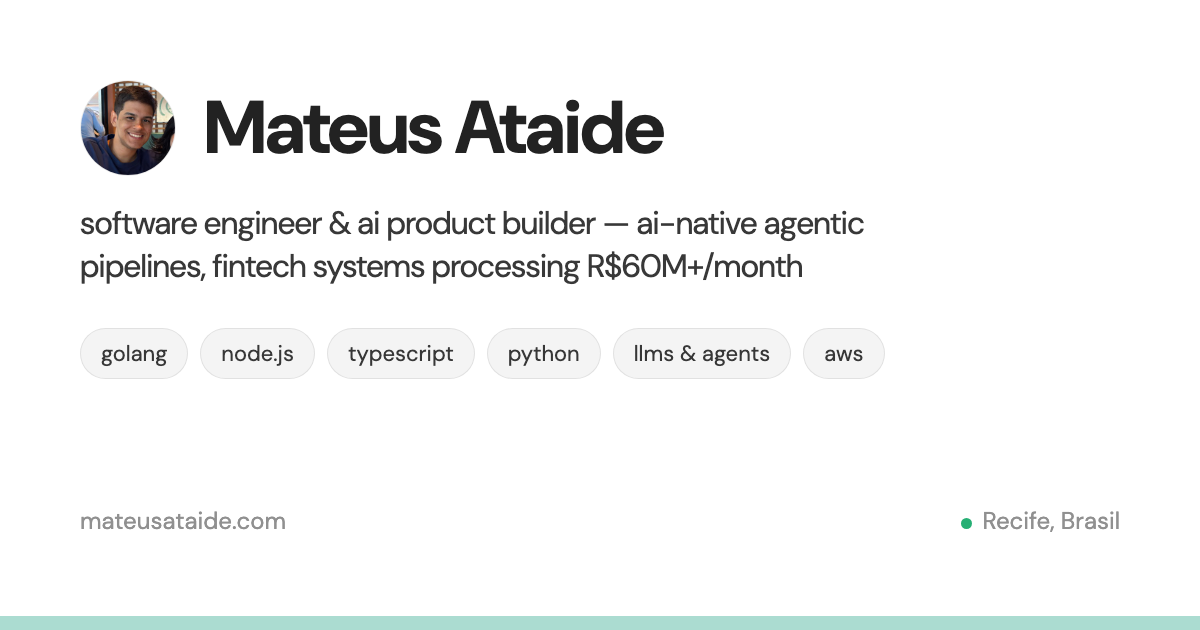
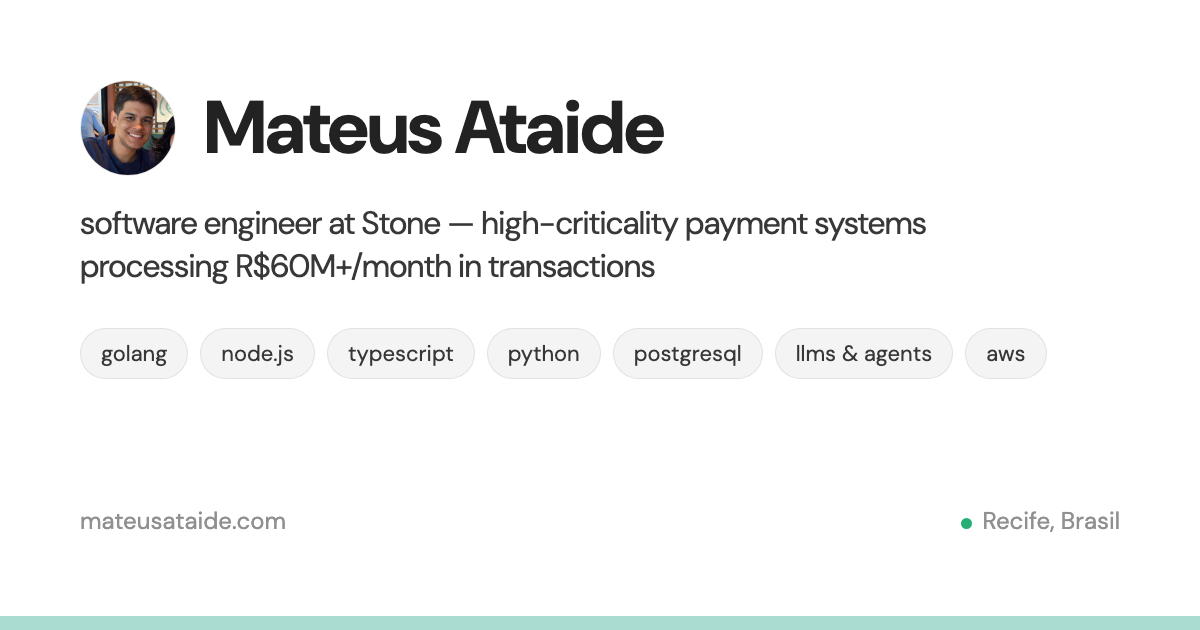
Apply the LinkedIn profile as the content source of truth
The site's copy had gone stale. Reconciles it against the exported
profile, which reorders the whole journey and shifts the positioning
from AI-first to fintech-first.

Roles
- Stone (Software Engineer, sep 2026 – present) is the current role;
  Robbin (jul – sep 2026, São Paulo) was missing entirely.
- Extreme Group (Volund) had been listed as current. It is absent from
  the profile, and Robbin starts in July, so it is now bounded to
  jun – jul 2026. That end date is inferred, not sourced.
- Amigo Tech dates follow the profile: Team Leader sep 2025 – may 2026
  and Software Engineer sep 2024 – may 2026, which overlap.
- Brightlift and the UFPE teaching assistantship are site-only and
  uncontradicted, so both stay.

Achievements the site was missing
- boleto generation cut from 2min to 100ms via async installment creation
- an OTP validation layer securing R$35M+/month of sensitive operations
- 17% average monthly growth in transaction volume
- the partner API detail behind the +30%: Pix QR Code, installment cards
  with dynamic interest, Redis rate limiting and IP controls
- Amigo Pay context, payment webhook reconciliation, POS work, 100M+ TPV

Stat grids follow the numbers: boleto latency and monthly growth join the
Team Leader entry, and the OTP figure joins the Software Engineer one.

Also
- Bio and headline lead with payments; applied AI is now the second note.
- Education is the profile's Computer Technology, jan 2023 – jan 2027.
[…]

Changed region(s): [[0.0617, 0.3317, 0.7708, 0.4524], [0.5242, 0.5429, 0.7708, 0.573], [0.8017, 0.5429, 0.8633, 0.573]]

diff --git a/src/lib/portfolio-content.ts b/src/lib/portfolio-content.ts
@@ -41,7 +41,7 @@ export const content = {
   en: {
     name: "Mateus Ataide",
     location: "Recife, Pernambuco, Brazil",
-    tagline: "I'm Mateus; software engineer, ai product builder & perpetual tinkerer.",
+    tagline: "I'm Mateus; software engineer at Stone — payments, and applied ai on the side.",
     status: "open to chat",
     sections: {
       about: "About",
@@ -53,22 +53,40 @@ export const content = {
       contact: "Contact",
     },
     about: {
-      headline: "I turn manual work into systems that run themselves",
+      headline: "I build the systems that decide whether money actually moves",
       body: [
-        "software engineer and ai product builder with 3+ years of experience delivering high-impact systems. currently building ai-native agentic pipelines at extreme group (volund), turning months-long projects into weeks. previously led a fintech squad at amigo tech, sustaining systems that process r$60m+/month. focused on golang, node.js/typescript, python, and applied ai (llms, rag and ai agents in production).",
-        "studying information systems at ufpe, one of brazil's top cs schools.",
+        "software engineer with 3+ years building high-criticality financial systems — payment platforms processing r$60m+/month in transactions for thousands of doctors and clinics across brazil. currently at stone.",
+        "most of my work lives in the unglamorous parts: a postgresql query taken from 13s to 150ms, boleto generation from 2 minutes to 100ms, an otp layer guarding r$35m+/month of sensitive operations, a bacen-mandated pix dispute flow shipped in a week.",
+        "alongside that i build with applied ai — llms, rag and agents in production — and i've used it to take human steps out of development pipelines entirely.",
+        "studying computer technology at ufpe's centro de informática, one of brazil's top cs schools.",
         "really interested in meeting new people and learning about their experiences. reach out if you want to chat!",
       ],
     },
     contactPrompt: "Got something interesting to say?",
     experience: [
       {
+        slug: "stone",
+        company: "Stone",
+        role: "Software Engineer",
+        period: "sep 2026 – present",
+        bullets: [
+          "recently joined stone's engineering team, working on payment systems at one of brazil's largest fintechs.",
+        ],
+      },
+      {
+        slug: "robbin",
+        company: "Robbin",
+        role: "Software Engineer",
+        period: "jul 2026 – sep 2026 · são paulo",
+        bullets: ["backend engineering on the product team."],
+      },
+      {
         slug: "extreme-group",
         company: "Extreme Group (Volund)",
         role: "AI Product Builder",
-        period: "jun 2026 – present",
+        period: "jun 2026 – jul 2026",
         bullets: [
-          "transform manual projects into ai-native workflows through specialized agents, eliminating human bottlenecks in repetitive development and operational steps.",
+          "transformed manual projects into ai-native workflows through specialized agents, eliminating human bottlenecks in repetitive development and operational steps.",
           "contributed to building volund os, an agent creation platform for cross-functional use (commercial, product, c-levels), integrating claude code and cursor sdk to unify models and integrations across the organization.",
           "integrated a legacy prodesp project from prototype to gcp deploy, reducing human interaction in the development cycle by 60% via ai agent automation.",
         ],
@@ -77,37 +95,43 @@ export const content = {
       {
         slug: "amigo-tech",
         company: "Amigo Tech",
-        role: "Software Engineer & Team Lead",
-        period: "nov 2025 – may 2026",
+        role: "Team Leader",
+        period: "sep 2025 – may 2026 · recife",
         bullets: [
-          "led a fintech squad, driving technical decisions, solution planning and product alignment, always focused on ownership and delivering real business impact.",
-          "architected an e-commerce integration api (nestjs/typescript + redis) with projected +30% revenue impact.",
-          "architected the med (pix dispute) system from scratch in nodejs and angular, delivered in 1 week with automated tests, webhooks and full flow, meeting a critical bacen requirement — impacts 75% of monthly transactions.",
+          "led a fintech squad building payment solutions, driving technical decisions, solution planning and product alignment — and mentoring engineers through code reviews, 1:1s and continuous feedback.",
+          "designed and launched a partner api for e-commerce integrations enabling flexible multi-payment checkout — pix qr code and installment card payments with dynamic interest calculation — with redis-backed rate limiting and ip controls in nestjs. projected +30% revenue.",
+          "cut payment-slip (boleto) generation from over 2 minutes to 100ms by moving installment creation to an asynchronous model.",
+          "architected the med (pix dispute) system from scratch, delivered in 1 week with unit tests, webhooks and a complete refund flow, meeting a critical bacen requirement — impacts 75% of monthly transactions.",
+          "contributed to features sustaining an average 17% monthly growth in transaction volume across the payment platform.",
           "led the migration of a critical pipeline from node.js to go, cutting processing down to ~4s for 20,000 records per run.",
           "operated cloud infrastructure on aws (ecs, s3, sqs, sns, lambda, cloudwatch) with authentication, authorization and access control across payment apis.",
           "used claude code daily as an agentic pipeline for planning, implementation, review and debugging.",
         ],
         stats: [
           { value: "+30%", label: "Projected revenue" },
+          { value: "100ms", label: "Boleto generation, from 2min" },
           { value: "1 week", label: "MED system shipped" },
-          { value: "4s", label: "20k records pipeline" },
+          { value: "+17%", label: "Monthly volume growth" },
         ],
       },
       {
         slug: "amigo-tech",
         company: "Amigo Tech",
         role: "Software Engineer",
-        period: "sep 2024 – nov 2025",
+        period: "sep 2024 – may 2026 · recife",
         bullets: [
-          "built and maintained backend apis and systems in nestjs/typescript and go for a platform processing r$60m+/month, with authentication, authorization and api security best practices.",
+          "drove the evolution of amigo pay, the financial platform inside the amigo ecosystem, building and integrating high-impact features in nestjs/typescript and go on a platform processing 100m+ tpv.",
+          "reduced accounts-receivable query latency from 13s to 150ms (~85x) by optimizing postgresql queries, execution plans and indexes over high-volume financial datasets.",
+          "designed and built from scratch a secure otp validation api supporting r$35m+/month in transaction volume — the first security layer for every sensitive payment operation, with session-based validation and attempt blocking against fraud.",
+          "implemented reliable payment webhook flows, improving asynchronous transaction updates and reconciliation accuracy across the platform.",
+          "enhanced pos systems with transaction history and automated email reporting in react native and node.js, improving merchant visibility.",
           "built an ai customer support bot in python using rag + the openai api — cut support handling time by 40% in production.",
-          "reduced critical postgresql query latency from 13s to 150ms (~85x) via data analysis and profiling-based optimization.",
           "implemented observability with grafana and datadog — metrics, logs and alerts — ensuring 99% slo and supporting production experiment analysis.",
         ],
         stats: [
           { value: "R$60M+", label: "Processed monthly" },
           { value: "~85x", label: "Query speedup" },
-          { value: "−40%", label: "Support handling time" },
+          { value: "R$35M+", label: "Secured by the OTP layer" },
         ],
       },
       {
@@ -153,8 +177,8 @@ export const content = {
       {
         slug: "ufpe",
         title: "UFPE — Centro de Informática (CIn)",
-        role: "Bachelor's in Information Systems",
-        period: "2023 – present, Recife, Brazil",
+        role: "Computer Technology / Computer Systems",
+        period: "jan 2023 – jan 2027, Recife, Brazil",
         bullets: [
           "one of the top cs teaching and research centers in brazil and latin america.",
           "key subjects: algorithms, data structures, operating systems, oop, software engineering, systems architecture, ai, databases.",
@@ -202,7 +226,7 @@ export const content = {
       },
       {
         label: "Cloud",
-        items: ["aws", "ecs", "s3", "sqs", "sns", "lambda", "cloudwatch", "gcp", "linux"],
+        items: ["aws", "ecs", "s3", "sqs", "sns", "lambda", "cloudwatch", "gcp", "docker", "linux"],
       },
       { label: "Databases", items: ["postgresql", "mysql", "mongodb", "redis"] },
       { label: "Quality", items: ["automated tests", "jest", "ci/cd", "code review", "git"] },
@@ -210,12 +234,16 @@ export const content = {
         label: "Observability",
         items: ["grafana", "datadog", "cloudwatch", "structured logging", "slos"],
       },
+      {
+        label: "Spoken",
+        items: ["portuguese (native)", "english (professional)", "spanish (professional)"],
+      },
     ],
     certifications: [
       "Getting into the Serverless Mindset",
       "AWS Lambda Foundations",
       "Introduction to AWS Lambda",
-      "SQL Intermediate",
+      "SQL/Sequelize",
       "Nest: The Complete Developer's Guide",
       "SQL and PostgreSQL: The Complete Developer's Guide",
     ],
@@ -224,7 +252,8 @@ export const content = {
   pt: {
     name: "Mateus Ataide",
     location: "Recife, Pernambuco, Brasil",
-    tagline: "Sou o Mateus; engenheiro de software, ai product builder & curioso incurável.",
+    tagline:
+      "Sou o Mateus; engenheiro de software na Stone — pagamentos, e ia aplicada em paralelo.",
     status: "aberto a conversar",
     sections: {
       about: "Sobre",
@@ -236,22 +265,40 @@ export const content = {
       contact: "Contato",
     },
     about: {
-      headline: "Transformo trabalho manual em sistemas que se resolvem sozinhos",
+      headline: "Construo os sistemas que decidem se o dinheiro realmente sai do lugar",
       body: [
-        "engenheiro de software e ai product builder com 3+ anos de experiência entregando sistemas de alto impacto. atualmente construindo pipelines agênticos ai-native na extreme group (volund), transformando projetos de meses em semanas. anteriormente liderei uma squad fintech na amigo tech, sustentando sistemas que processam r$60m+/mês. focado em golang, node.js/typescript, python e ia aplicada (llms, rag e agentes de ia em produção).",
-        "estudando sistemas de informação na ufpe, uma das melhores escolas de cs do brasil.",
+        "engenheiro de software com 3+ anos construindo sistemas financeiros de alta criticidade — plataformas de pagamento que processam r$60m+/mês em transações para milhares de médicos e clínicas no brasil. atualmente na stone.",
+        "meu trabalho mora nas partes pouco glamourosas: uma query no postgresql que saiu de 13s para 150ms, geração de boleto de 2 minutos para 100ms, uma camada de otp protegendo r$35m+/mês em operações sensíveis, um fluxo de contestação de pix exigido pelo bacen entregue em uma semana.",
+        "em paralelo construo com ia aplicada — llms, rag e agentes em produção — e usei isso para eliminar etapas humanas de esteiras de desenvolvimento.",
+        "estudando tecnologia da computação no centro de informática da ufpe, uma das melhores escolas de cs do brasil.",
         "tenho muito interesse em conhecer pessoas novas e aprender sobre suas experiências. me chama se quiser conversar!",
       ],
     },
     contactPrompt: "Tem algo interessante pra dizer?",
     experience: [
       {
+        slug: "stone",
+        company: "Stone",
+        role: "Engenheiro de Software",
+        period: "set 2026 – atual",
+        bullets: [
+          "entrei recentemente no time de engenharia da stone, trabalhando em sistemas de pagamento em uma das maiores fintechs do brasil.",
+        ],
+      },
+      {
+        slug: "robbin",
+        company: "Robbin",
+        role: "Engenheiro de Software",
+        period: "jul 2026 – set 2026 · são paulo",
+        bullets: ["engenharia de backend no time de produto."],
+      },
+      {
         slug: "extreme-group",
         company: "Extreme Group (Volund)",
         role: "AI Product Builder",
-        period: "jun 2026 – atual",
+        period: "jun 2026 – jul 2026",
         bullets: [
-          "transformo projetos manuais em fluxos ai-native através da criação de agentes especializados, eliminando gargalos humanos em etapas repetitivas de desenvolvimento e operação.",
+          "transformei projetos manuais em fluxos ai-native através da criação de agentes especializados, eliminando gargalos humanos em etapas repetitivas de desenvolvimento e operação.",
           "participei da construção do volund os, plataforma de criação de agentes para uso transversal (comercial, produto e c-levels), integrando claude code e o sdk do cursor para unificar modelos e integrações em toda a organização.",
           "integrei projeto legado do prodesp da prototipação ao deploy em gcp, reduzindo em 60% a interação humana no ciclo de desenvolvimento via automação com agentes de ia.",
         ],
@@ -260,37 +307,43 @@ export const content = {
       {
         slug: "amigo-tech",
         company: "Amigo Tech",
-        role: "Engenheiro de Software & Team Lead",
-        period: "nov 2025 – mai 2026",
+        role: "Team Leader",
+        period: "set 2025 – mai 2026 · recife",
         bullets: [
-          "liderei uma squad fintech, conduzindo decisões técnicas, planejamento de soluções e alinhamento de produto, sempre focado em ownership e entrega de impacto real no negócio.",
-          "arquitetei api de integração com e-commerce (nestjs/typescript + redis) com impacto projetado de +30% em receita.",
-          "arquitetei do zero o sistema de med (contestação de pix) em nodejs e angular, entregue em 1 semana com testes automatizados, webhooks e fluxo completo, atendendo exigência crítica do bacen — impacta 75% das transações mensais.",
+          "liderei uma squad fintech de soluções de pagamento, conduzindo decisões técnicas, planejamento de soluções e alinhamento de produto — e mentorando engenheiros via code review, 1:1s e feedback contínuo.",
+          "projetei e lancei uma api de parceiros para integrações com e-commerce, viabilizando checkout multi-pagamento flexível — pix qr code e cartão parcelado com cálculo dinâmico de juros — com rate limiting via redis e controle de ip em nestjs. impacto projetado de +30% em receita.",
+          "reduzi a geração de boleto de mais de 2 minutos para 100ms ao migrar a criação de parcelas para um modelo assíncrono.",
+          "arquitetei do zero o sistema de med (contestação de pix), entregue em 1 semana com testes unitários, webhooks e fluxo completo de estorno, atendendo exigência crítica do bacen — impacta 75% das transações mensais.",
+          "contribuí com features que sustentaram um crescimento médio de 17% ao mês no volume transacionado da plataforma.",
           "liderei migração de pipeline crítico de node.js para go, reduzindo processamento para ~4s com 20.000 registros por execução.",
           "operei infraestrutura em nuvem na aws (ecs, s3, sqs, sns, lambda, cloudwatch) com autenticação, autorização e controle de acesso nas apis de pagamento.",
           "utilizei claude code diariamente como esteira agêntica para planejamento, implementação, revisão e debugging.",
         ],
         stats: [
           { value: "+30%", label: "Receita projetada" },
+          { value: "100ms", label: "Geração de boleto, de 2min" },
           { value: "1 semana", label: "Sistema MED entregue" },
-          { value: "4s", label: "Pipeline de 20 mil registros" },
+          { value: "+17%", label: "Crescimento mensal do volume" },
         ],
       },
       {
         slug: "amigo-tech",
         company: "Amigo Tech",
         role: "Engenheiro de Software",
-        period: "set 2024 – nov 2025",
+        period: "set 2024 – mai 2026 · recife",
         bullets: [
-          "desenvolvi e mantive apis e sistemas distribuídos de backend em nestjs/typescript e go para plataforma processando r$60m+/mês, com autenticação, autorização e boas práticas de segurança.",
+          "conduzi a evolução do amigo pay, a plataforma financeira do ecossistema amigo, construindo e integrando features de alto impacto em nestjs/typescript e go numa plataforma que processa 100m+ de tpv.",
+          "reduzi a latência de consultas de contas a receber de 13s para 150ms (~85x) otimizando queries, planos de execução e índices no postgresql sobre bases financeiras de alto volume.",
+          "projetei e construí do zero uma api de validação por otp sustentando r$35m+/mês em volume transacionado — primeira camada de segurança de toda operação de pagamento sensível, com validação por sessão e bloqueio de tentativas contra fraude.",
+          "implementei fluxos confiáveis de webhook de pagamento, melhorando as atualizações assíncronas de transação e a precisão da conciliação na plataforma.",
+          "evoluí sistemas de pos com histórico de transações e relatórios automáticos por e-mail em react native e node.js, ampliando a visibilidade do lojista.",
           "desenvolvi bot de atendimento com ia em python usando rag + api openai — reduziu tempo de atendimento em 40% em produção.",
-          "reduzi latência de consultas críticas no postgresql de 13s para 150ms (~85x) via otimização baseada em análise de dados e profiling.",
           "implementei observabilidade com grafana e datadog — métricas, logs e alertas — garantindo 99% de slo e suporte à análise de experimentos em produção.",
         ],
         stats: [
           { value: "R$60M+", label: "Processados por mês" },
           { value: "~85x", label: "Ganho em queries" },
-          { value: "−40%", label: "Tempo de atendimento" },
+          { value: "R$35M+", label: "Protegidos pela camada de OTP" },
         ],
       },
       {
@@ -336,8 +389,8 @@ export const content = {
       {
         slug: "ufpe",
         title: "UFPE — Centro de Informática (CIn)",
-        role: "Bacharelado em Sistemas de Informação",
-        period: "2023 – atual, Recife, Brasil",
+        role: "Tecnologia da Computação / Sistemas de Computação",
+        period: "jan 2023 – jan 2027, Recife, Brasil",
         bullets: [
           "um dos principais centros de ensino e pesquisa em cs do brasil e da américa latina.",
           "matérias-chave: algoritmos, estruturas de dados, sistemas operacionais, poo, engenharia de software, arquitetura de sistemas, ia, bancos de dados.",
@@ -385,7 +438,7 @@ export const content = {
       },
       {
         label: "Cloud",
-        items: ["aws", "ecs", "s3", "sqs", "sns", "lambda", "cloudwatch", "gcp", "linux"],
+        items: ["aws", "ecs", "s3", "sqs", "sns", "lambda", "cloudwatch", "gcp", "docker", "linux"],
       },
       { label: "Bancos de dados", items: ["postgresql", "mysql", "mongodb", "redis"] },
       {
@@ -396,12 +449,16 @@ export const content = {
         label: "Observabilidade",
         items: ["grafana", "datadog", "cloudwatch", "logs estruturados", "slos"],
       },
+      {
+        label: "Idiomas",
+        items: ["português (nativo)", "inglês (profissional)", "espanhol (profissional)"],
+      },
     ],
     certifications: [
       "Getting into the Serverless Mindset",
       "AWS Lambda Foundations",
       "Introduction to AWS Lambda",
-      "SQL Intermediate",
+      "SQL/Sequelize",
       "Nest: The Complete Developer's Guide",
       "SQL and PostgreSQL: The Complete Developer's Guide",
     ],

diff --git a/src/routes/index.tsx b/src/routes/index.tsx
@@ -12,15 +12,15 @@ import { content, type Lang } from "@/lib/portfolio-content";
 const SITE_URL = "https://mateusataide.com/";
 
 const DESCRIPTION =
-  "software engineer & ai product builder in recife, brasil. ai-native agentic pipelines at extreme group (volund), fintech systems processing R$60M+/month, golang, node.js, python.";
+  "software engineer at stone, in recife, brasil. high-criticality payment systems processing R$60M+/month — node.js/typescript, golang, python, postgresql, aws, and applied ai.";
 
 export const Route = createFileRoute("/")({
   component: Portfolio,
   head: () => ({
     meta: [
-      { title: "Mateus Ataide — software engineer & ai product builder" },
+      { title: "Mateus Ataide — software engineer" },
       { name: "description", content: DESCRIPTION },
-      { property: "og:title", content: "Mateus Ataide — software engineer & ai product builder" },
+      { property: "og:title", content: "Mateus Ataide — software engineer" },
       { property: "og:description", content: DESCRIPTION },
       { property: "og:url", content: SITE_URL },
     ],

diff --git a/src/routes/__root.tsx b/src/routes/__root.tsx
@@ -13,7 +13,7 @@ import appCss from "../styles.css?url";
 const SITE_URL = "https://mateusataide.com/";
 
 const DESCRIPTION =
-  "Mateus Ataide — software engineer & ai product builder. Experience, projects and techstack.";
+  "Mateus Ataide — software engineer at Stone, building high-criticality payment systems. Experience, projects and techstack.";
 
 const BUTTON =
   "inline-flex items-center justify-center rounded-card bg-ink px-4 py-2 text-sm font-medium text-bg transition-opacity hover:opacity-85";
